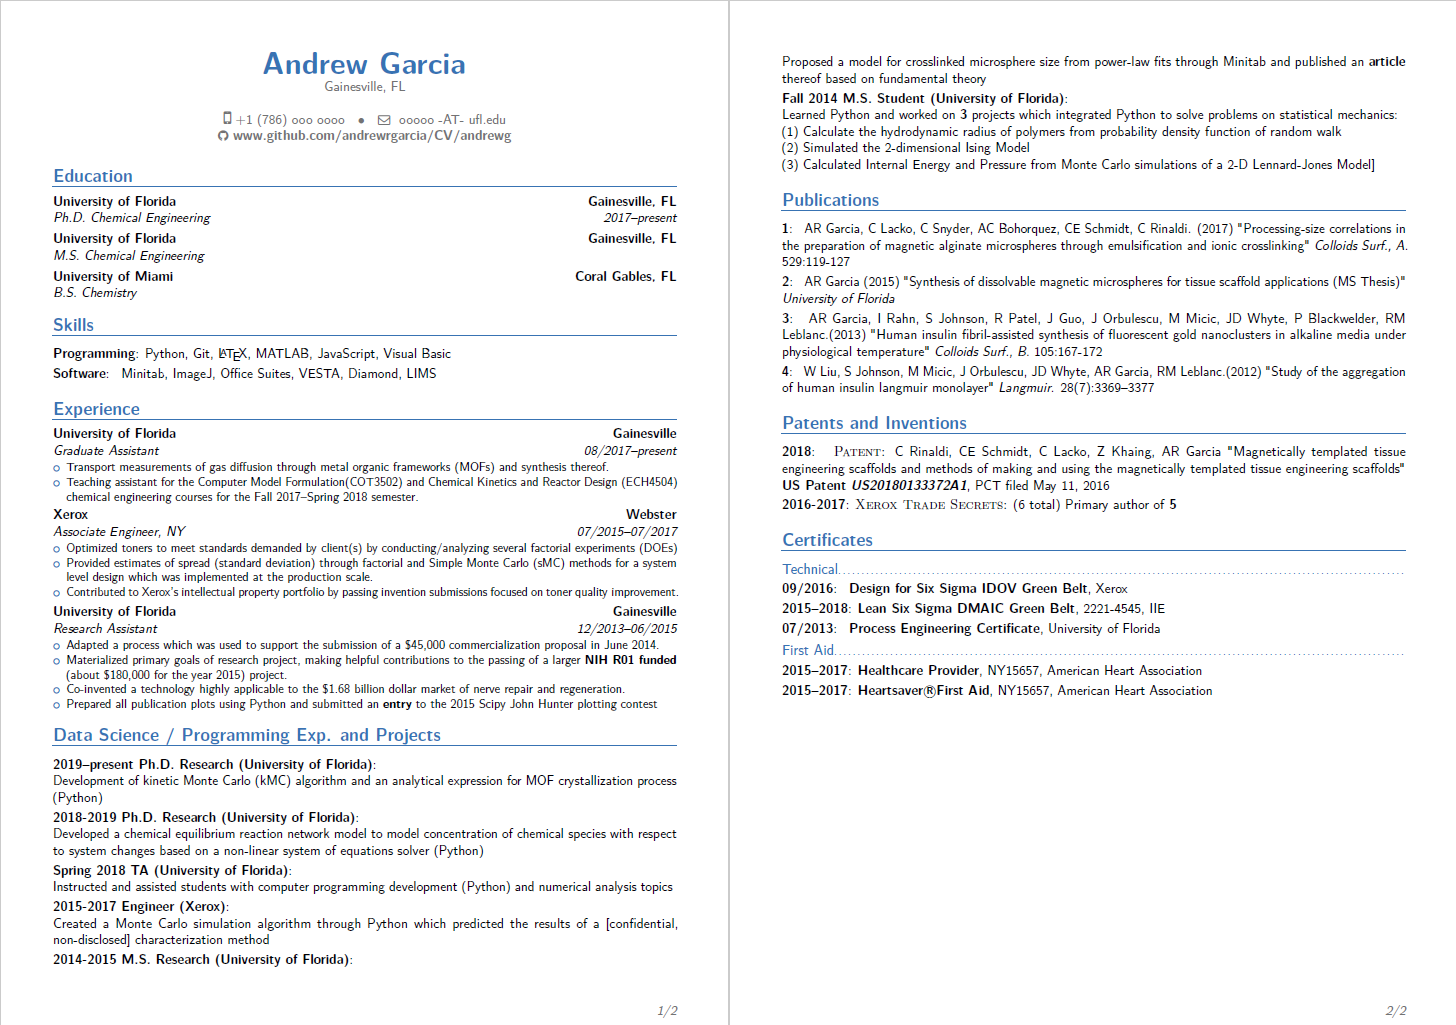
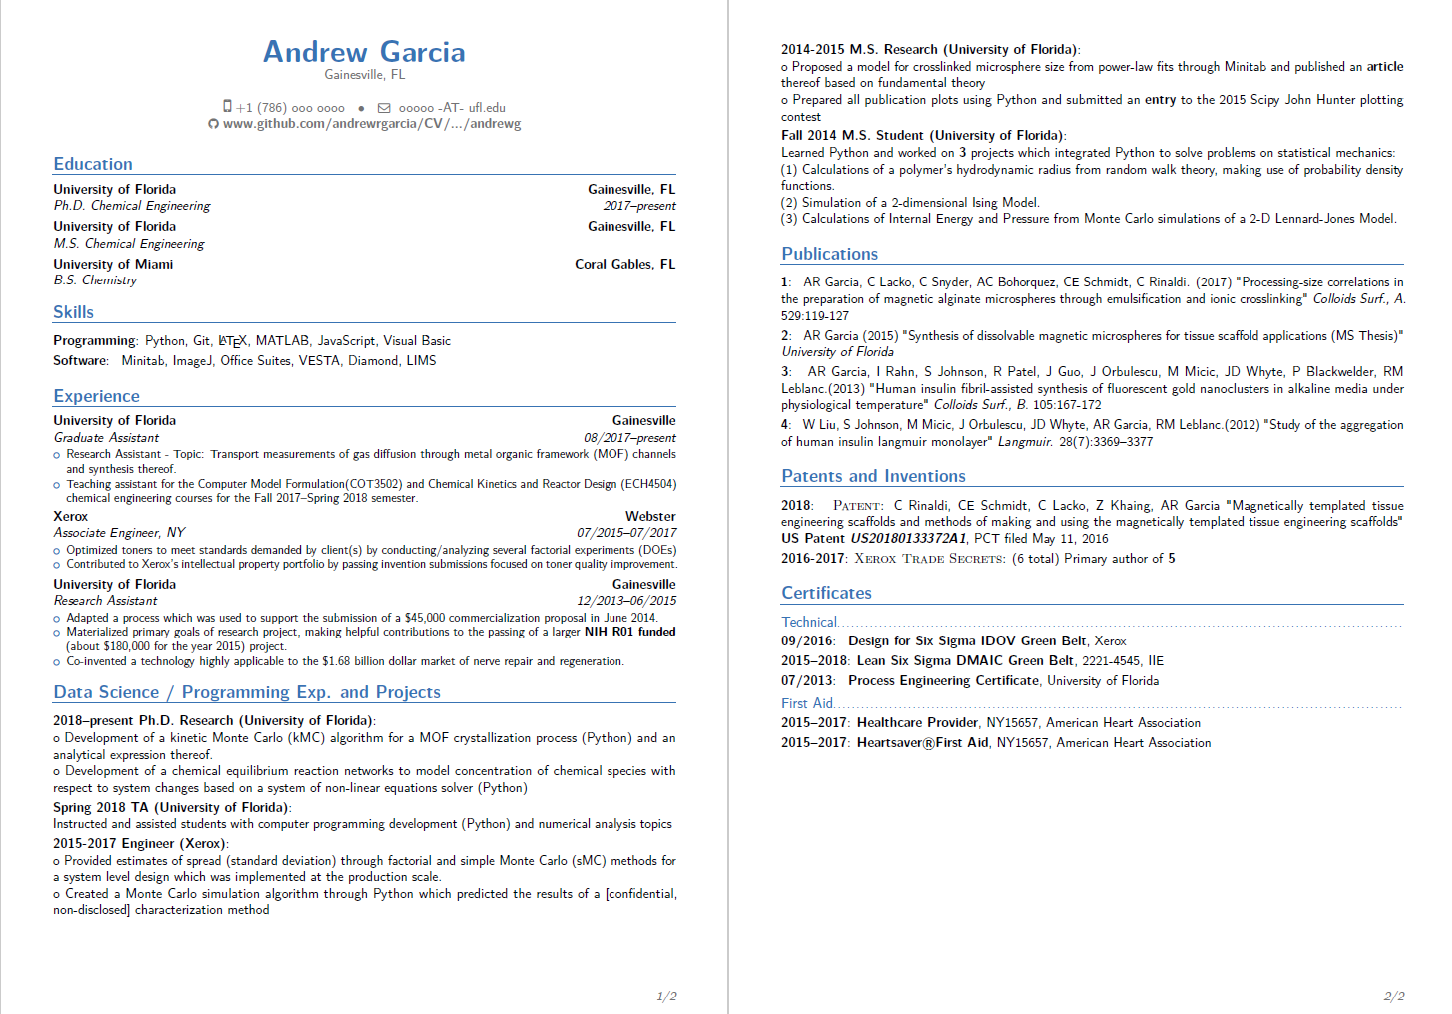
resume changes for Data Incubator program

diff --git a/andrewg/argres.tex b/andrewg/argres.tex
@@ -30,7 +30,7 @@
 % 	\item Reviewed physical constraints of equipment to be bought from manuals and product catalogs.
 % 	\item Communicated with vendors through phone calls to obtain price quotes and information from desired supplies.
 % 	\end{itemize}
-\item Transport measurements of gas diffusion through metal organic frameworks (MOFs) and synthesis thereof.
+\item Research Assistant - Topic: Transport measurements of gas diffusion through metal organic framework (MOF) channels and synthesis thereof.
 	% \begin{itemize}
 	% \item Designing and executing experiments based on a working theoretical understanding of crystal synthesis.
 	% \item Analyzing crystal structures through the use of X-Ray Diffraction (XRD) and SEM.
@@ -55,7 +55,6 @@ chemical engineering courses for the Fall 2017--Spring 2018 semester.
 \cventry{07/2015--07/2017}{Associate Engineer}{\textsc{Xerox}}{Webster}{NY}{
 \begin{itemize}
 \item Optimized toners to meet standards demanded by client(s) by conducting/analyzing several factorial experiments (DOEs)
-\item Provided estimates of spread (standard deviation) through factorial and Simple Monte Carlo (sMC) methods for a system level design which was implemented at the production scale.
 \item Contributed to Xerox's intellectual property portfolio by passing invention submissions focused on toner quality improvement.
 % \item Designed chemical toners for Xerox, leaving the company after 2017s 2nd quarter (operating cash flow: \$343 million, \
 % up \$84 million from the same period in 2016).
@@ -68,38 +67,45 @@ chemical engineering courses for the Fall 2017--Spring 2018 semester.
 \item Materialized primary goals of research project, making helpful contributions to the passing of a larger
 \href{http://grantome.com/grant/NIH/R21-NS093239-02}{\textbf{NIH R01 funded}} (about \$180,000 for the year 2015) project.\
 \item Co-invented a technology highly applicable to the \$1.68 billion dollar market of nerve repair and regeneration.
-\item Prepared all publication plots using Python and submitted an \href{https://github.com/andrewrgarcia/scipycon_15}{\textbf{entry}} to the 2015 Scipy John Hunter plotting contest
 \end{itemize}}
 
 
 
 \section{Data Science / Programming Exp. and Projects}
 
-\cvitem{2019--present Ph.D. Research (University of Florida)}{
+\cvitem{2018--present Ph.D. Research (University of Florida)}{
 \newline
-{Development of kinetic Monte Carlo (kMC) algorithm and an analytical expression for MOF crystallization process (Python)} }
-\cvitem{2018-2019 Ph.D. Research (University of Florida)}{
+{o Development of a kinetic Monte Carlo (kMC) algorithm for a MOF crystallization process (Python) and an analytical expression thereof.
 \newline
-{Developed a chemical equilibrium reaction network model to model concentration of chemical species with respect to system changes based on a non-linear system of equations solver (Python)} }
+o Development of a chemical equilibrium reaction networks to model concentration of chemical species with respect to system changes based on a system of non-linear equations solver (Python)} }
 \cvitem{Spring 2018 TA (University of Florida)}{
 \newline
 {Instructed and assisted students with computer programming development (Python) and numerical analysis topics } }
 \cvitem{2015-2017 Engineer (Xerox)}{
 \newline
-{Created a Monte Carlo simulation algorithm through Python which predicted the results of a [confidential, non-disclosed] characterization method} }
+{o Provided estimates of spread (standard deviation) through factorial and simple Monte Carlo (sMC) methods for a system level design which was implemented at the production scale.
+\newline
+o Created a Monte Carlo simulation algorithm through Python which predicted the results of a [confidential, non-disclosed] characterization method
+\newline
+\newline} }
+
 \cvitem{2014-2015 M.S. Research (University of Florida)}{
 \newline
 \href{https://doi.org/10.1016/j.colsurfa.2017.05.058}
-{Proposed a model for crosslinked microsphere size from power-law fits through Minitab and published an \textbf{article} thereof based on fundamental theory } }
+{o Proposed a model for crosslinked microsphere size from power-law fits through Minitab and published an \textbf{article} thereof based on fundamental theory}
+\newline
+\href{https://github.com/andrewrgarcia/scipycon_15}
+{o Prepared all publication plots using Python and submitted an \textbf{entry} to the 2015 Scipy John Hunter plotting contest
+}  }
 \cvitem{Fall 2014 M.S. Student (University of Florida)}{
 \newline
 {Learned Python and worked on \textbf{3} projects which integrated Python to solve problems on statistical mechanics:
 \newline
-(1) Calculate the hydrodynamic radius of polymers from probability density function of random walk
+(1) Calculations of a polymer's hydrodynamic radius from random walk theory, making use of probability density functions.
 \newline
-(2) Simulated the 2-dimensional Ising Model
+(2) Simulation of a 2-dimensional Ising Model.
 \newline
-(3) Calculated Internal Energy and Pressure from Monte Carlo simulations of a 2-D Lennard-Jones Model]  } }
+(3) Calculations of Internal Energy and Pressure from Monte Carlo simulations of a 2-D Lennard-Jones Model.  } }
 
 \section{Publications}
 % \cventry{}{}{}{}{}{
